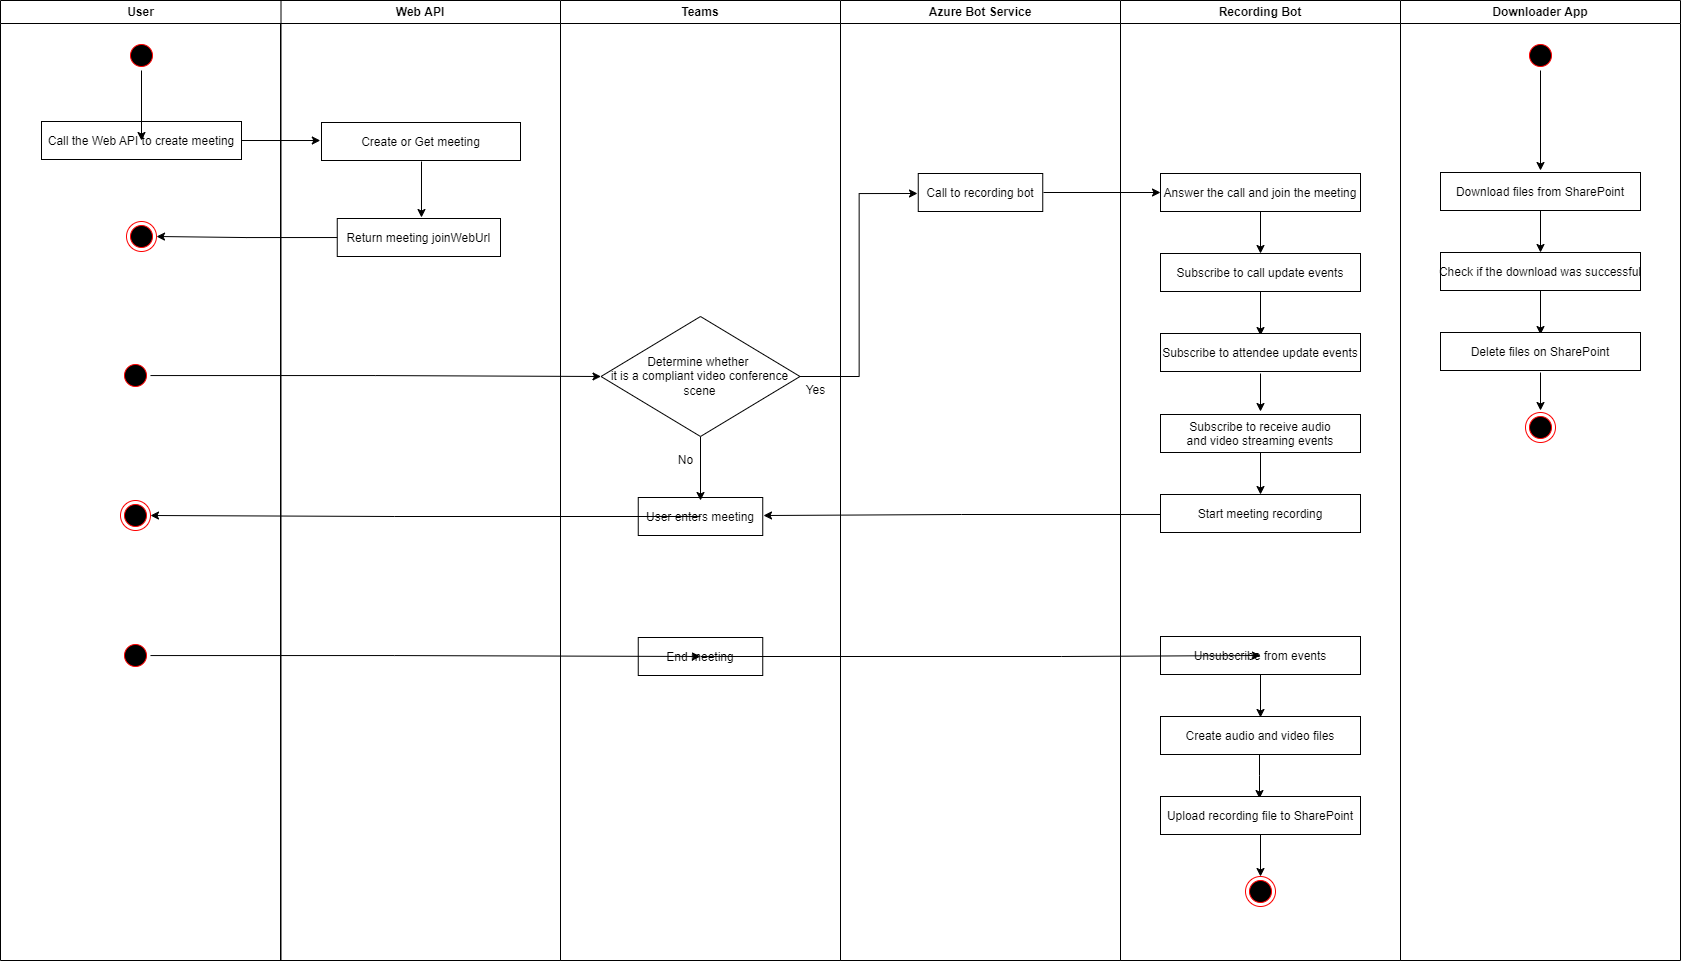
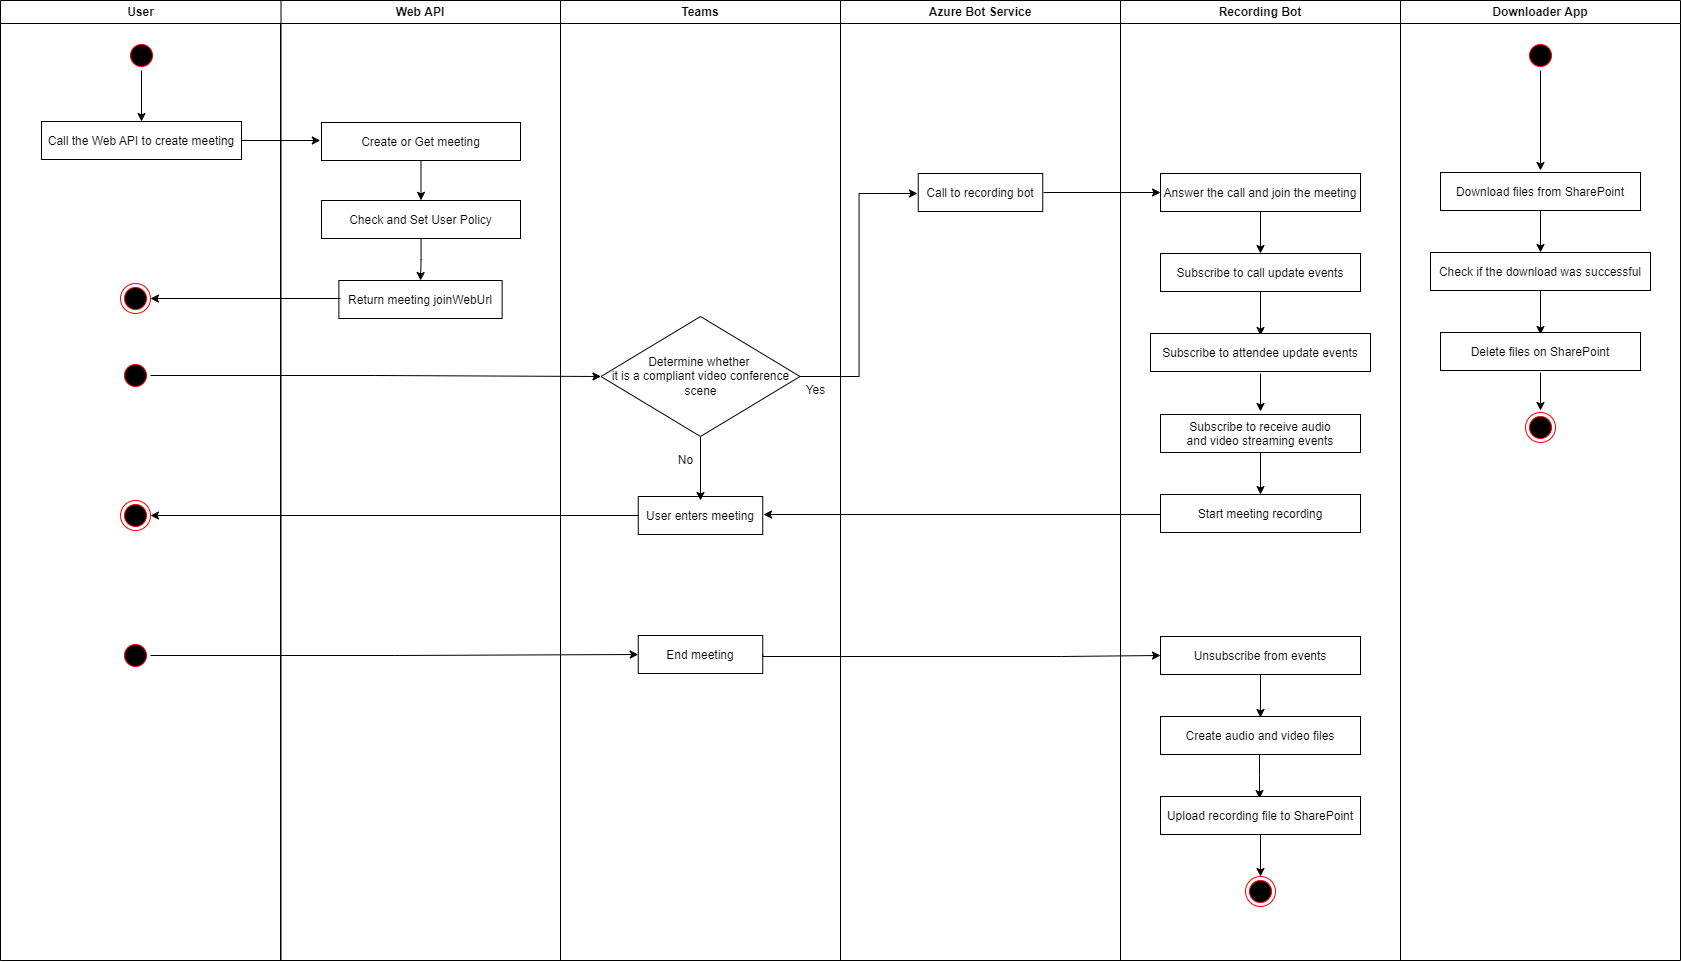
Update

diff --git a/Wiki/Architecture.md b/Wiki/Architecture.md
@@ -8,7 +8,31 @@ The **Custom Compliance Recording Bot** has the following main components:
 * **Web API**: Create or Get Teams Online Meeting.
 * **Azure Bot**: Call to recording bot.
 * **Reaording Bot**: The Azure Cloud Services (extended support)for teams policy-based recording.(https://docs.microsoft.com/en-us/microsoftteams/teams-recording-policy)
-* **Downloader App**: The app will download files from SharePoint.
+* **Downloader App**: The Azure Key vault stores the secrets, certificates and connection strings. For more information about the data stored, please check [this](Data-stores.md).
 * **Microsoft Graph API**: The app leverages Microsoft graph api's to [Create Online  Meeting](https://docs.microsoft.com/en-us/graph/api/application-post-onlinemeetings?view=graph-rest-1.0&tabs=csharp), [Get Online Meeting](https://docs.microsoft.com/en-us/graph/api/onlinemeeting-get?view=graph-rest-1.0&tabs=http), [Get User](https://docs.microsoft.com/en-us/graph/api/user-get?view=graph-rest-1.0&tabs=http).
+
+---
+
+## Flow chart
+
+Following description of solution components workflows and how they interact with each other for core scenarios.
+
+![Flow chart](images/Architecture-2.png)
+
+### CreateMeeting Web API
+
+The user calls the CreateMeeting API to create a meeting and set the primary user to the Compliance Recording Policy.
+
+### Azure Bot Service
+
+The Teams platform will dial the Recording Bot through the call settings of this Azure Bot Service so that the Bot can Anser Call to join the meeting.
+
+### Recording Bot
+
+After joining the meeting, subscribe to the meeting event and automatically start the recording, save the recording files after the meeting end, and upload to the specified SharePoint location.
+
+### Downloader App
+
+Download meeting recording files from specified SharePoint location.
 
 ---
